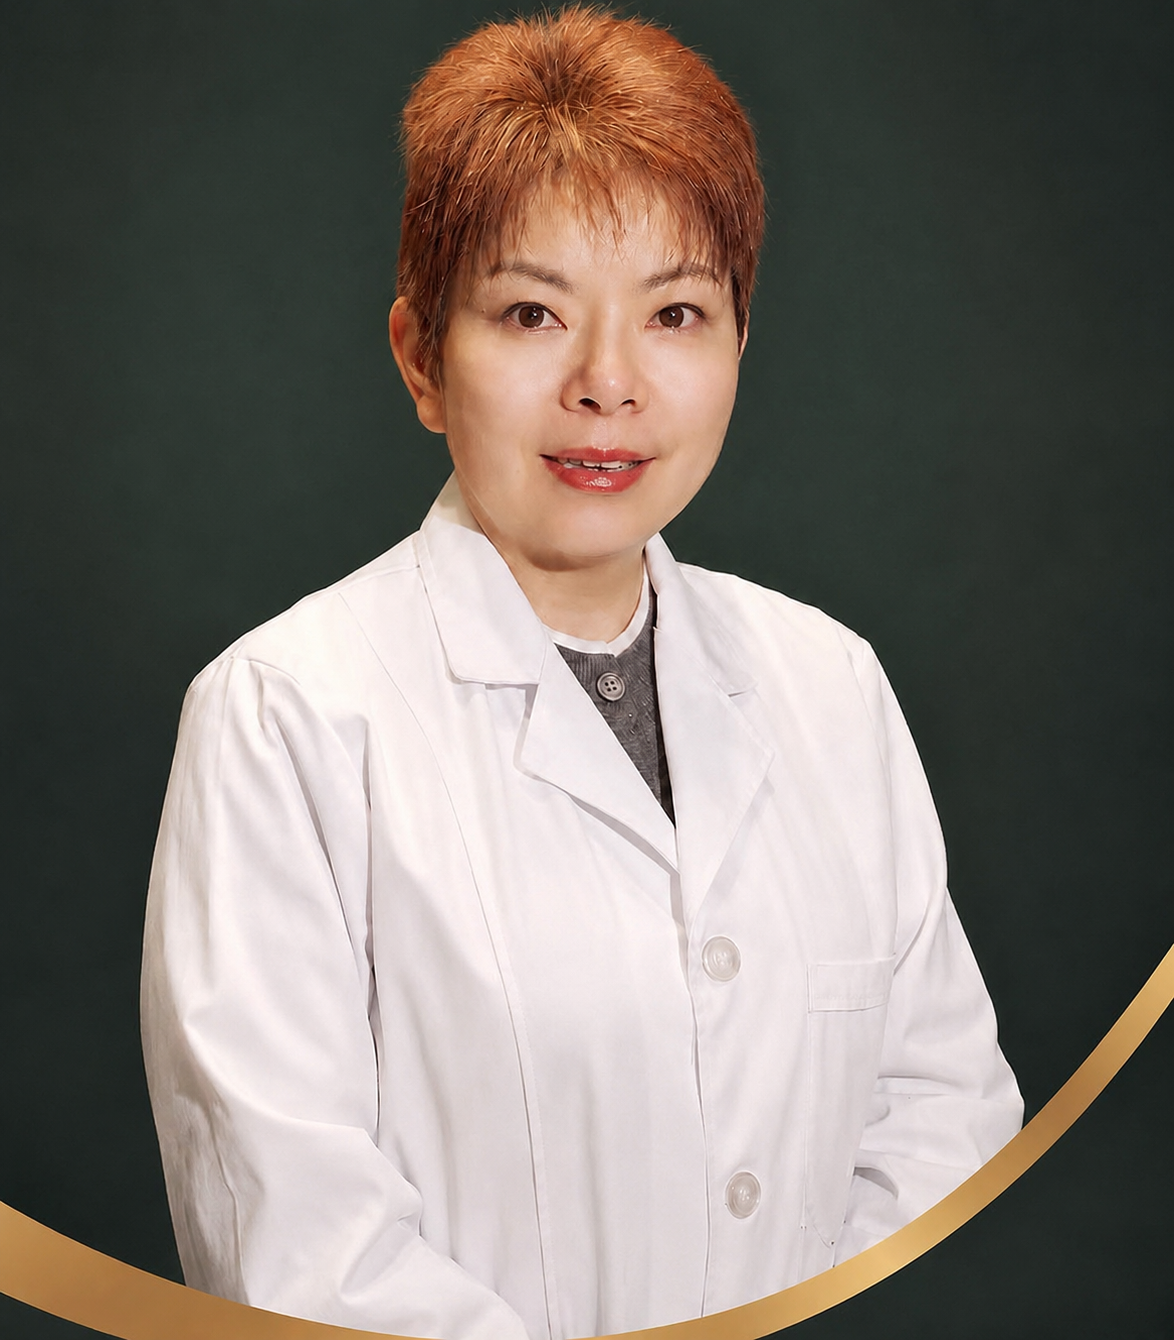
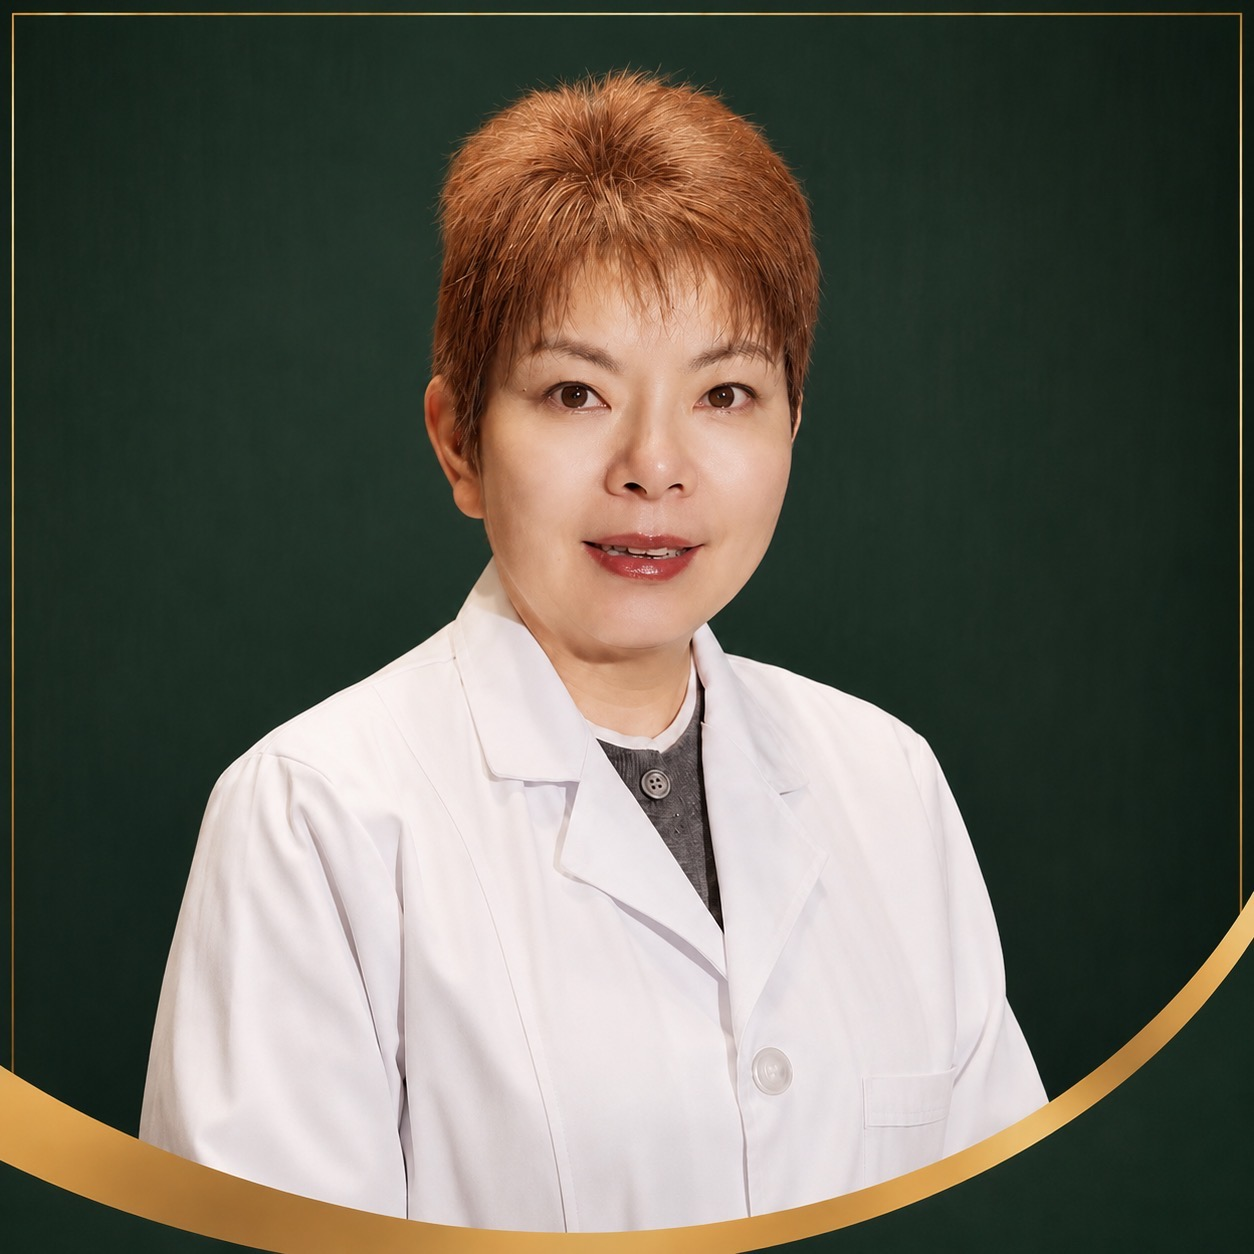
feat: ui update

diff --git a/src/components/ACCTreatmentPage.jsx b/src/components/ACCTreatmentPage.jsx
@@ -153,31 +153,31 @@ export default function ACCTreatmentPage() {
   return (
     <div id="acc-details" className="scroll-mt-16 bg-[#f0f4f9] dark:bg-slate-950 transition-colors">
       {/* SECTION 1 — HERO */}
-      <section className="relative isolate overflow-hidden bg-primary py-16 md:py-24 text-white">
+      <section className="relative isolate overflow-hidden bg-[#f0f4f9] py-16 md:py-24 dark:bg-slate-950 border-b border-slate-200/80 dark:border-slate-800">
         <div className="container">
           <div className="mx-auto max-w-3xl text-center">
-            <span className="inline-block rounded-full bg-white/15 px-4 py-1.5 text-xs font-bold tracking-wider text-emerald-100 mb-4">
+            <span className="inline-block rounded-full bg-emerald-100 dark:bg-emerald-950/80 px-4 py-1.5 text-xs font-bold tracking-wider text-emerald-900 dark:text-emerald-300 border border-emerald-200 dark:border-emerald-800 mb-4">
               ACC INJURY RECOVERY
             </span>
-            <h1 className="text-4xl font-bold md:text-5xl mb-4 text-white">
+            <h1 className="text-4xl font-extrabold md:text-5xl mb-4 text-[#1a472a] dark:text-emerald-300">
               ACC Injury Recovery
             </h1>
-            <p className="text-xl font-medium text-emerald-200 mb-6">
+            <p className="text-xl font-semibold text-emerald-800 dark:text-emerald-400 mb-6">
               Personalised Acupuncture & Chinese Medicine Treatment for ACC-Covered Injuries
             </p>
-            <p className="text-base md:text-lg leading-8 opacity-90 mb-8">
+            <p className="text-base md:text-lg leading-relaxed text-slate-700 dark:text-slate-300 mb-8 max-w-3xl mx-auto">
               Injury can affect more than the painful area — it can change movement, sleep, confidence and everyday activity. Wellness Spring provides individualised acupuncture and Chinese medicine care to support recovery from ACC-covered injuries and help you return to function safely and confidently.
             </p>
 
             {/* Trust Badges */}
             <div className="flex flex-wrap justify-center gap-3 md:gap-4 mb-8">
-              <span className="rounded-full bg-white/10 px-4 py-2 text-xs font-semibold backdrop-blur-sm border border-white/15">
+              <span className="rounded-full bg-white dark:bg-slate-900 px-4 py-2 text-xs font-semibold text-emerald-800 dark:text-emerald-300 border border-emerald-200 dark:border-slate-800 shadow-sm">
                 ✓ ACC-Registered Acupuncturist
               </span>
-              <span className="rounded-full bg-white/10 px-4 py-2 text-xs font-semibold backdrop-blur-sm border border-white/15">
+              <span className="rounded-full bg-white dark:bg-slate-900 px-4 py-2 text-xs font-semibold text-emerald-800 dark:text-emerald-300 border border-emerald-200 dark:border-slate-800 shadow-sm">
                 ✓ Individualised Injury Recovery Plans
               </span>
-              <span className="rounded-full bg-white/10 px-4 py-2 text-xs font-semibold backdrop-blur-sm border border-white/15">
+              <span className="rounded-full bg-white dark:bg-slate-900 px-4 py-2 text-xs font-semibold text-emerald-800 dark:text-emerald-300 border border-emerald-200 dark:border-slate-800 shadow-sm">
                 ✓ Acupuncture + Chinese Medicine Support
               </span>
             </div>
@@ -185,7 +185,7 @@ export default function ACCTreatmentPage() {
             <a
               href="#contact"
               onClick={handleContactClick}
-              className="inline-block rounded-full bg-white px-8 py-3.5 text-sm font-bold text-primary hover:bg-emerald-50 transition-all shadow-lg cursor-pointer"
+              className="inline-block rounded-full bg-primary hover:bg-secondary text-white dark:bg-emerald-600 dark:hover:bg-emerald-500 px-8 py-3.5 text-sm font-bold shadow-lg transition-all cursor-pointer"
             >
               Book ACC Treatment
             </a>
